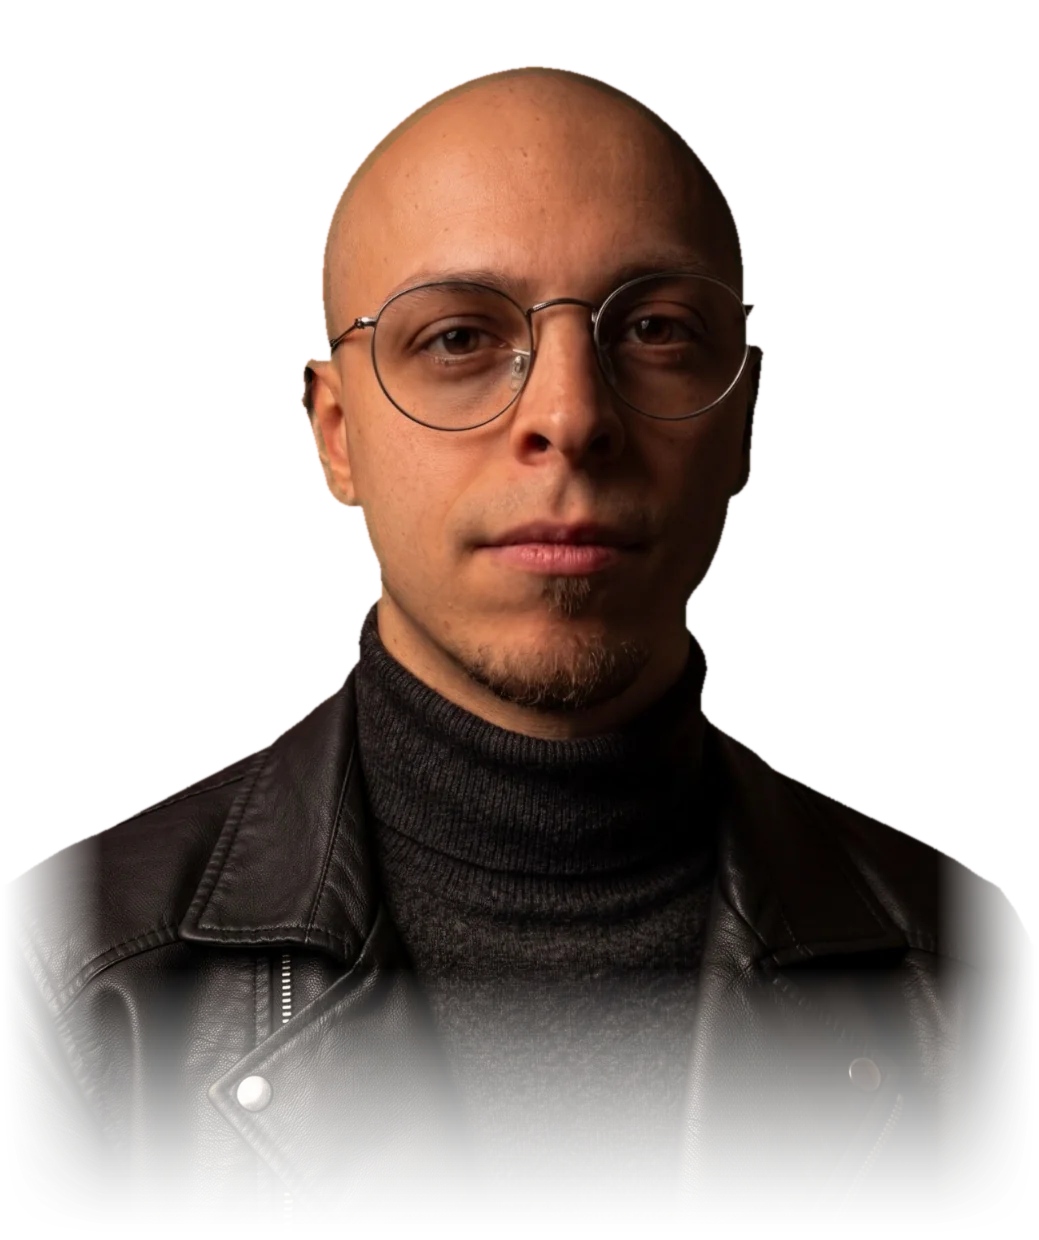
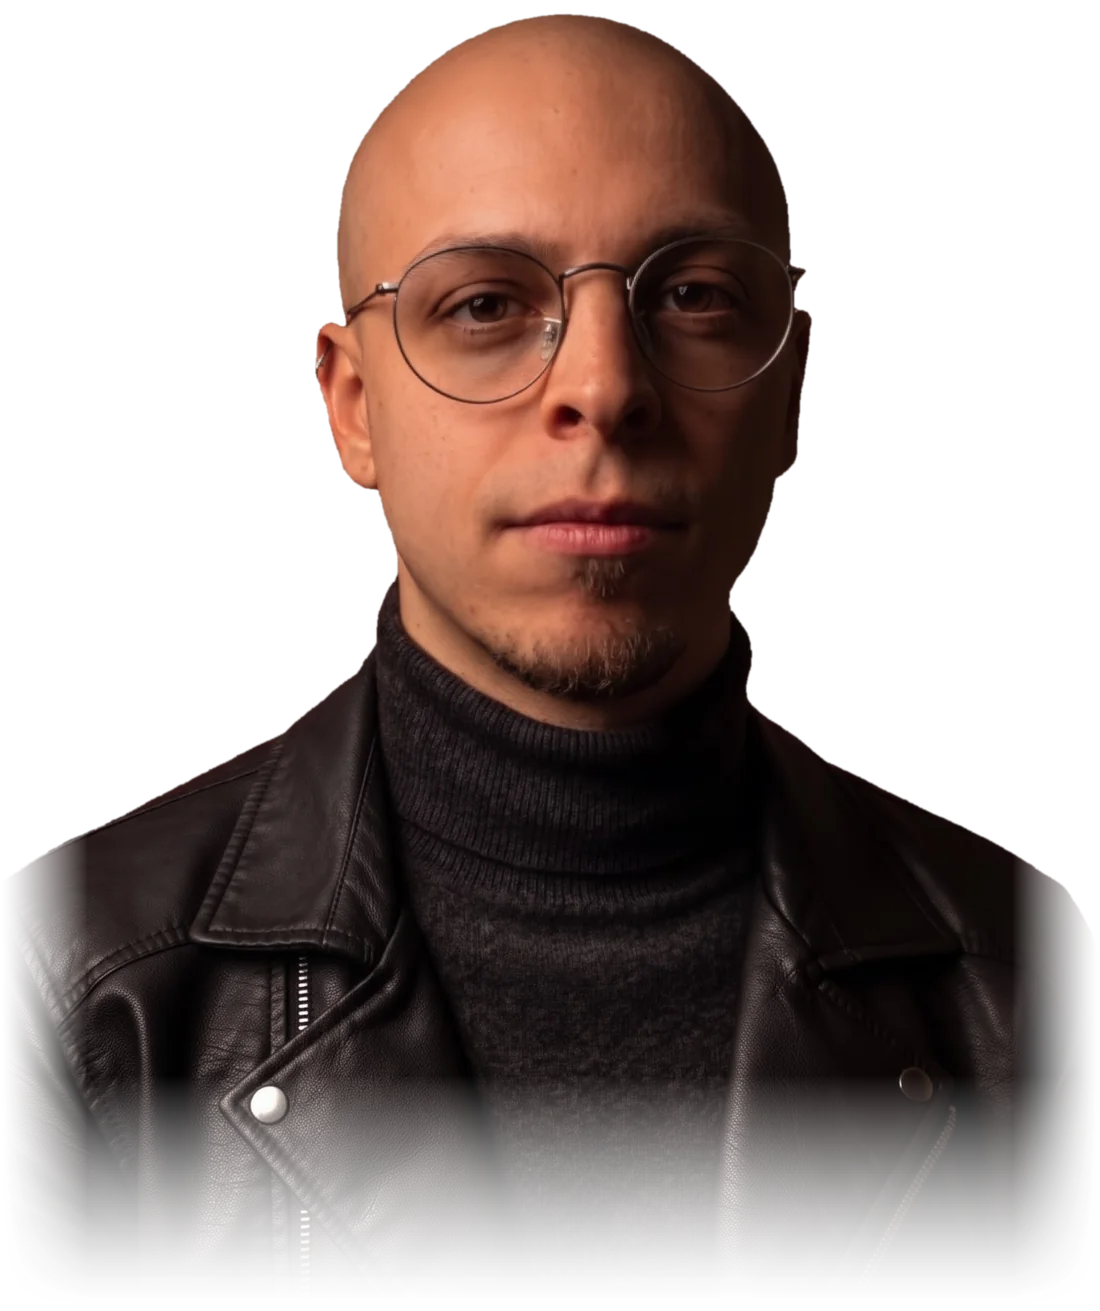
Ritratto con ritaglio migliore e un po' più grande; via il blocco contatti dalla home
- Nuovo ritaglio dal file senza sfondo, bordi puliti; taglio più stretto sulla testa, quindi il ritratto risulta più grande
- Tolto dalla home il blocco "Mandami contesto, obiettivo e tempi" con la mail; restano i tre link
- Rimossi CSS, testi (it, en, zh) e codice che servivano solo a quel blocco
- og-home.jpg con il nuovo ritratto; test e BRAND.md aggiornati

Claude-Session: https://claude.ai/code/session_013V1PHsXmyXHJ8mUMRufPdc

Changed region(s): [[0.0, 0.0, 0.9856, 0.95]]

diff --git a/home-editorial.css b/home-editorial.css
@@ -1,26 +1,14 @@
-/* Home: dopo il ritratto e la presentazione c'è solo l'invito a scrivermi. */
-.home-section-inner{width:min(100% - 48px,var(--wide-w));margin-inline:auto}
-.home-contact{padding-block:clamp(44px,7vw,88px) clamp(52px,8vw,100px)}
-.home-contact p{max-width:62ch;font-family:var(--serif);font-size:clamp(1.5rem,3vw,2rem);line-height:1.4}
-.home-contact .home-contact-email{display:flex;align-items:center;margin-top:12px;font-family:var(--sans);font-size:1.125rem}
-.home-contact-email .reveal-btn,.home-contact-email a{display:inline-flex;align-items:center;min-height:44px;font-size:1.125rem}
-.home-contact-email a{color:var(--accent);font-weight:600;text-underline-offset:5px}
-.home-contact-email .reveal-btn:active{color:var(--accent-hover);transform:scale(.97)}
-@media(hover:hover) and (pointer:fine){.home-contact-email a:hover{color:var(--accent-hover)}}
+/* Home: ritratto e presentazione, nient'altro. Risultati e Progetti stanno nelle loro pagine, dai tre link. */
+
 /* Mobile: niente riga sotto la barra; il ritratto prende lo spazio che resta tra la barra e la barra dei link, così tutto il testo sta nella prima schermata. */
 @media(max-width:700px){
   .topbar{border-bottom:0}
   .hero-inner{min-height:calc(100svh - 68px - 56px - env(safe-area-inset-bottom));padding-bottom:8px}
-  .hero-overlay{padding-top:12px}
-  .hero-name{margin-bottom:18px}
+  .hero-overlay{padding-top:8px}
+  .hero-name{margin-bottom:14px}
 }
-@media(max-width:700px){
-  .home-section-inner{width:calc(100% - 40px)}
-  .home-contact{padding-top:12px;padding-bottom:52px}
-}
-@media(max-width:380px){.home-section-inner{width:calc(100% - 32px)}}
 
-/* Sotto l'hero Risultati e Progetti non ci sono: ci si arriva dai tre link. Su mobile Per chi prende il posto di Risultati. */
+/* Su mobile Per chi prende il posto di Risultati. */
 @media(min-width:701px){.home-for-whom-link{display:none}}
 @media(max-width:700px){
   .home-results-link{display:none}

diff --git a/script.js b/script.js
@@ -125,7 +125,6 @@
         [{t:"IT per le PA dal "},{t:"2022",b:true},{t:", Tech Lover dal "},{t:"1992",b:true},{t:"."}],
         [{t:"Porto l’Intelligenza Artificiale nei flussi operativi reali: assistenti AI che rispondono dai documenti aziendali, modelli che girano in casa e team formati sul campo."}]
       ],
-      home_contact_text:"Mandami contesto, obiettivo e tempi, e ti rispondo io.",
       skip_to_content:"Vai al contenuto",
       page_title:"Nicolò Forcolin | AI nel lavoro quotidiano",
       page_description:"IT per le PA dal 2022, Tech Lover dal 1992. Porto l’Intelligenza Artificiale nei flussi operativi reali: assistenti AI che rispondono dai documenti aziendali, modelli che girano in casa e team formati sul campo.",
@@ -374,7 +373,6 @@
         [{t:"IT for public administration since "},{t:"2022",b:true},{t:", tech lover since "},{t:"1992",b:true},{t:"."}],
         [{t:"I bring artificial intelligence into real operational workflows: AI assistants that answer from company documents, models that run in-house and teams trained in the field."}]
       ],
-      home_contact_text:"Send me the context, the goal and the timing, and I will reply myself.",
       skip_to_content:"Skip to content",
       page_title:"Nicolò Forcolin | AI in everyday work",
       page_description:"IT for public administration since 2022, tech lover since 1992. I bring artificial intelligence into real operational workflows: AI assistants that answer from company documents, models that run in-house and teams trained in the field.",
@@ -540,7 +538,6 @@
       return '<a href="mailto:' + em + '">' + em + "</a>" + copyBtn(em, "copy_email");
     }
     revealRow("cmEmail", "reveal_email", "Mostra email", emailLink);
-    revealRow("homeEmail", "reveal_email", "Mostra email", emailLink);
   })();
 
   /* One permanent visual theme; disregard preferences saved by older releases. */

diff --git a/tests/site-regression.test.js b/tests/site-regression.test.js
@@ -70,7 +70,7 @@ assert(home.includes('id="heroIntro"'), 'Hero intro paragraph missing');
 for (const language of ['it', 'en']) assert(dictionaries[language].includes('hero_intro:'), language + ': hero intro missing');
 assert(home.includes('data-i18n="skip_to_content"'), 'Skip link must be translated');
 assert(home.includes('href="progetti.html"') && home.includes('class="hero-link"') && home.includes('hero-link contact-trigger'), 'Hero links must reach the projects page and open the contacts');
-assert(home.includes('src="photo.webp?v=32"'), 'New portrait must be displayed');
+assert(home.includes('src="photo.webp?v=33"'), 'New portrait must be displayed');
 assert(!fs.existsSync(path.join(root, 'photo-mobile.webp')), 'The mobile crop is no longer used');
 assert(!home.includes('class="info-dialog"'), 'Project dialogs were replaced by pages');
 

diff --git a/i18n-zh.js b/i18n-zh.js
@@ -124,7 +124,6 @@ window.NF_I18N.zh = {
     [{ t: "自 " }, { t: "2022", b: true }, { t: " 年起从事公共行政领域的 IT，自 " }, { t: "1992", b: true }, { t: " 年起热爱科技。" }],
     [{ t: "我把人工智能带入真实的业务流程：根据公司文档作答的 AI 助手、在公司内部运行的模型，以及在一线接受培训的团队。" }]
   ],
-  home_contact_text: "请把背景、目标和时间安排发给我，我会亲自回复。",
   skip_to_content: "跳到正文",
   page_title: "Nicolò Forcolin | 日常工作中的 AI",
   page_description: "自 2022 年起从事公共行政领域的 IT，自 1992 年起热爱科技。我把人工智能带入真实的业务流程：根据公司文档作答的 AI 助手、在公司内部运行的模型，以及在一线接受培训的团队。",

diff --git a/index.html b/index.html
@@ -100,14 +100,8 @@
       </div>
     </div>
     <div class="hero-photo-frame">
-      <img class="hero-portrait" id="avatarPhoto" src="photo.webp?v=32" alt="Nicolò Forcolin" width="1039" height="1240" fetchpriority="high">
+      <img class="hero-portrait" id="avatarPhoto" src="photo.webp?v=33" alt="Nicolò Forcolin" width="1100" height="1311" fetchpriority="high">
     </div>
-  </div>
-</section>
-<section class="home-contact" aria-labelledby="home-contact-text">
-  <div class="home-section-inner">
-    <p id="home-contact-text" data-i18n="home_contact_text">Mandami contesto, obiettivo e tempi, e ti rispondo io.</p>
-    <p class="home-contact-email" id="homeEmail"></p>
   </div>
 </section>
 </main></div>

diff --git a/BRAND.md b/BRAND.md
@@ -71,7 +71,7 @@ Altri valori fissi: `#18181A` per lo sfondo della striscia dei progetti al passa
 - Due famiglie: Bodoni Moda per tutti i titoli (pagina, sezione, voci), sans di sistema (Segoe UI / fallback) per testo, menu ed etichette. Non usare Inter.
 - Cinque dimensioni: 16px (menu, etichette, date, note), 18px (testo), 22px (titoli delle voci), 24px (sottotitolo di pagina), 40px (titoli di sezione); il titolo di pagina scala fino a 76px.
 - Destiny Signature (licenza demo, uso non commerciale) solo come firma: "NForcolin" nella barra in alto (bianco) e il saluto in home (arancione). Gli altri titoli restano in Bodoni Moda.
-- Home: in alto la barra, sempre visibile; poi il ritratto a colori (foto con il giubbotto di pelle), ritagliato e appoggiato sul nero, con i bordi e il fondo sfumati. Su schermi larghi sta a destra del testo, su mobile sopra. Il testo: saluto su due righe, "Ciao, sono" al 78% del nome e sopra di esso (entrambi nel carattere della firma, arancione); sotto, "IT per le PA dal 2022, Tech Lover dal 1992." (anni in grassetto) e la frase sul lavoro con assistenti AI, modelli in casa e team formati sul campo; poi una riga con Progetti, Risultati (Per chi su mobile) e Contattami, solo testo arancione (su mobile centrate nella barra in basso). Sotto restano solo l'invito a scrivermi e la mail da mostrare con un clic: Risultati (porta ai risultati del RAG) e Progetti non stanno nella home, ci si arriva dai tre link. Niente schermata d'ingresso a tutto schermo.
+- Home: in alto la barra, sempre visibile; poi il ritratto a colori (foto con il giubbotto di pelle), ritagliato e appoggiato sul nero, con i bordi e il fondo sfumati. Su schermi larghi sta a destra del testo, su mobile sopra. Il testo: saluto su due righe, "Ciao, sono" al 78% del nome e sopra di esso (entrambi nel carattere della firma, arancione); sotto, "IT per le PA dal 2022, Tech Lover dal 1992." (anni in grassetto) e la frase sul lavoro con assistenti AI, modelli in casa e team formati sul campo; poi una riga con Progetti, Risultati (Per chi su mobile) e Contattami, solo testo arancione (su mobile centrate nella barra in basso). Sotto c'è solo il piè di pagina: Risultati (porta ai risultati del RAG), Progetti e Contatti non stanno nella home, ci si arriva dai tre link. Niente schermata d'ingresso a tutto schermo.
 - "Contattami" a fine pagina: testo nel carattere dei titoli, chiaro, con sottolineatura arancione; un solo invito per schermata.
 - Pagina Hobby: musica, audiofilia, fotografia, orologi, libri e animali, con i link ai profili personali; testi solo con ciò che l'autore ha detto, nessun anno o dato non fornito.
 - Prima i casi studio RAG e Local AI, poi bio e percorso.
